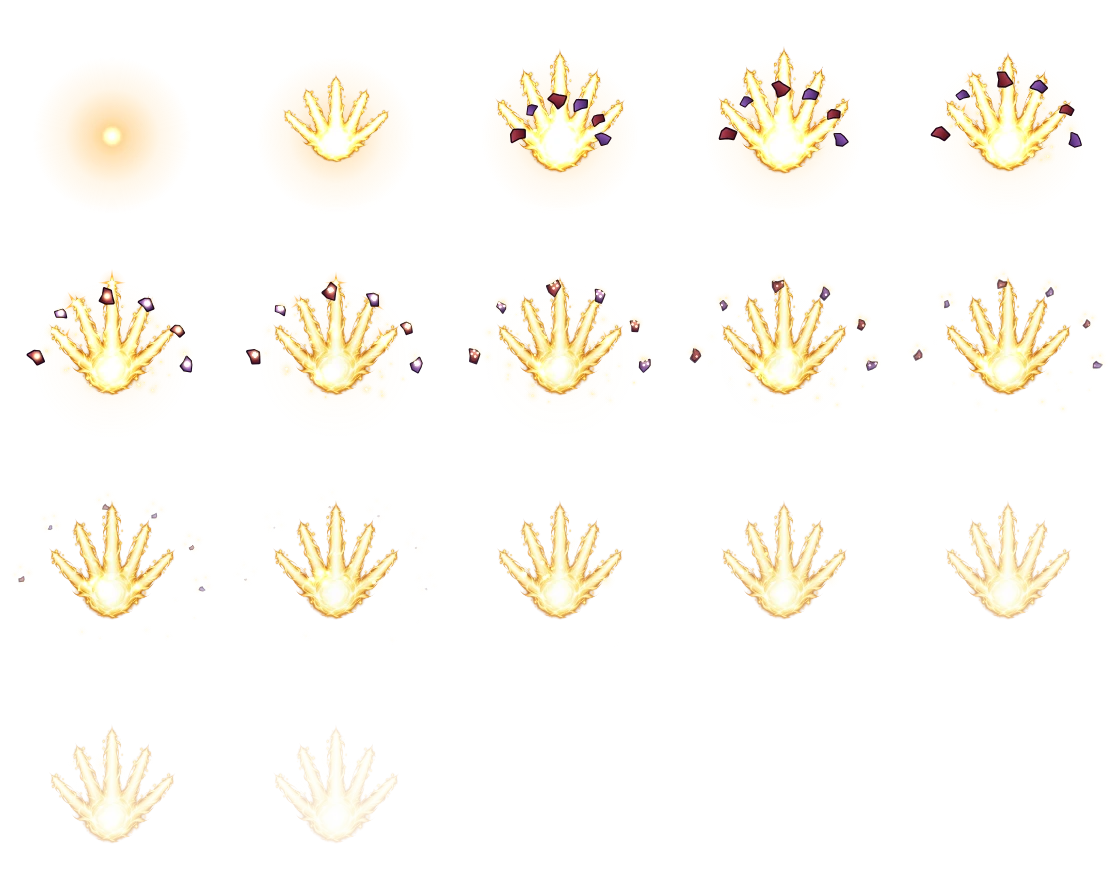
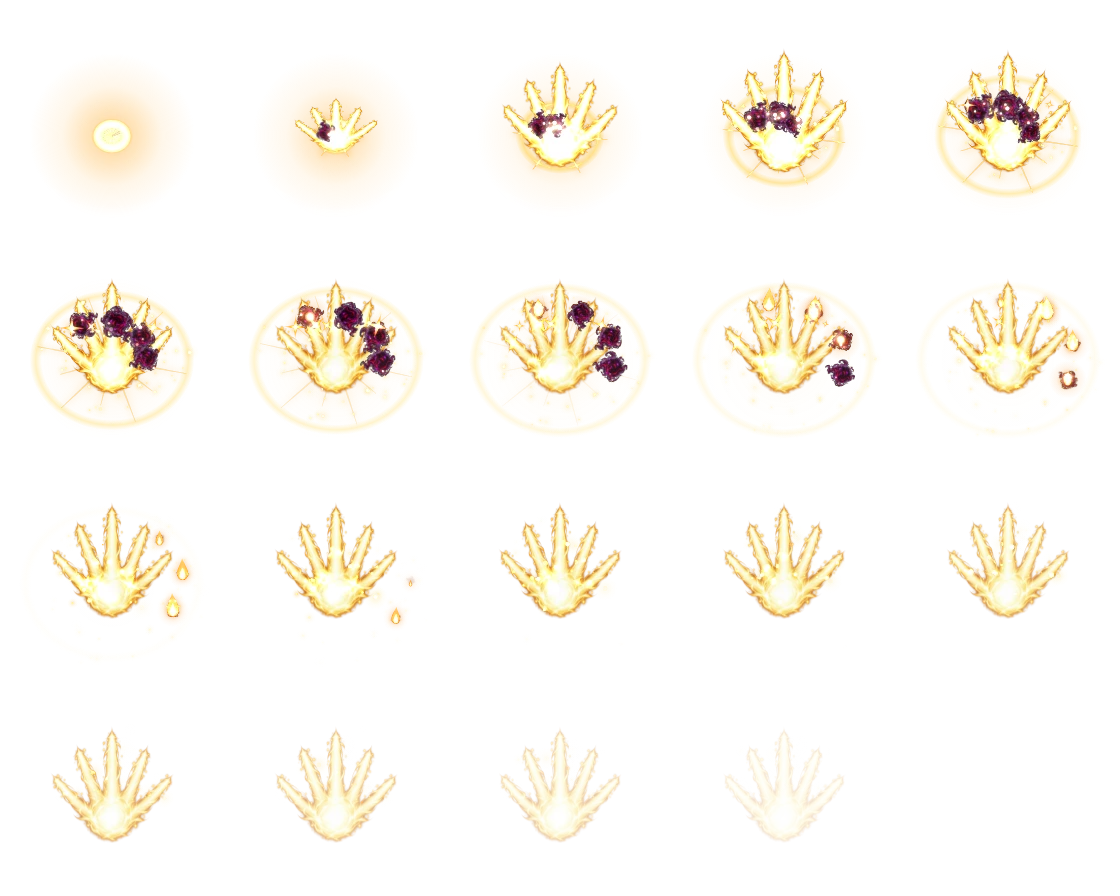
Paladin cleanse/holy light/light wave: flashier with many more particles (#243)
Lim: raise the cleanse quality, make Holy Light flashier, and give Light
Wave far more particles.

- cleanse (20f): white-gold flash, twelve thin rays, spreading light ring,
  palm burst, five Codex corruption wisps (paladin-taint) spiral out of the
  body and burn into gold flames/sparks, 46-spark burst, glints, swirl.
- holy light (16f, still no ray): star burst with eight short rays above
  the head, 84 tailed motes + 12 tumbling stars falling, body flash, two
  ground ripples, glints, 40-mote swirl.
- light wave (20f): sparkle curtain behind the falling crest, big flash +
  glint, two shockwave rings, 72 spray particles, 40-spark burst, a light
  fountain, 8 glints, 34-mote swirl.

diff --git a/src/battle/pxf.ts b/src/battle/pxf.ts
@@ -84,8 +84,8 @@ export const PXF = {
   'paladin-holy-light': skill(16, 80), // 기본 힐이라 가볍게 (Lim 2026-10-16 「너무 과하다」)
   'paladin-beacon': skill(20, 88),
   'paladin-oath': skill(24, 90),
-  'paladin-light-wave': skill(18, 88),
-  'paladin-cleanse': skill(18, 92),
+  'paladin-light-wave': skill(20, 88),
+  'paladin-cleanse': skill(20, 92),
   'paladin-sacrifice': skill(22, 92),
   'paladin-sanctuary': skill(24, 76),
   'paladin-hand-guard': skill(24, 94),

diff --git a/src/art/pxf/requests.md b/src/art/pxf/requests.md
@@ -63,7 +63,7 @@ Lim 「직업별 스킬별로 이펙트가 달라야 하는데 중복되는 게 
 |  |  | paladin-holy-light | 위에서 쏟아져 내리는 노란 빛 알갱이 (광선 없음, 2026-10-18 Lim) |
 | priest-relay | 포물선으로 날아와 튀는 꼬리 별 | paladin-beacon | 머리 위 봉화 그릇에 타오르는 불꽃 (Codex 그릇 + 불티) |
 | paladin-oath | 도는 마름모 룬 + 오각 문양 (Codex 오각 서약 문장) | paladin-light-wave | 쏟아져 양옆으로 부서지는 파도 (Codex 파도 마루) |
-| paladin-cleanse | 해돋이 빛살 손바닥 (Codex 빛살 손바닥) | paladin-sacrifice | 내려오는 사슬 + 붉은 맥동 (Codex 진홍 방패) |
+| paladin-cleanse | 해돋이 빛살 손바닥 (Codex 빛살 손바닥 · 뽑혀 타는 어둠 연기) | paladin-sacrifice | 내려오는 사슬 + 붉은 맥동 (Codex 진홍 방패) |
 | paladin-sanctuary | 바닥에서 솟는 반구 막 (Codex 빛 돔) | paladin-hand-guard | 도는 팔각 봉인 문양 (Codex 판금 팔각 테) |
 | common-hit | 붉은 할퀸 자국 | common-crit | 오른쪽 위 작은 네 갈래 별 |
 | common-heal | 작은 십자 + 빛 점 | common-dispel | 청록 고리 + 튀는 얼룩 |
